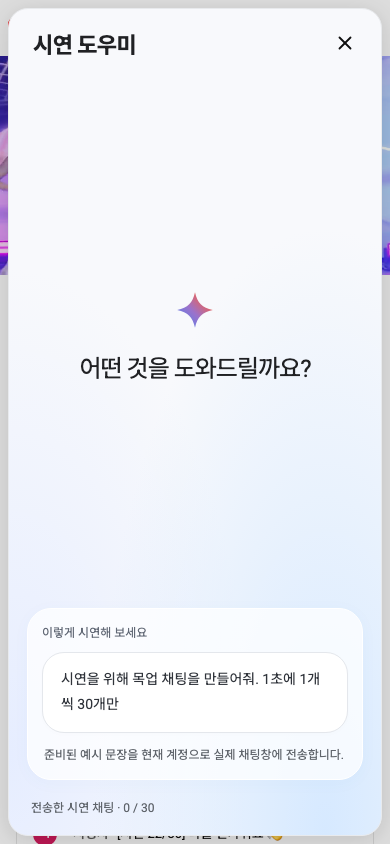
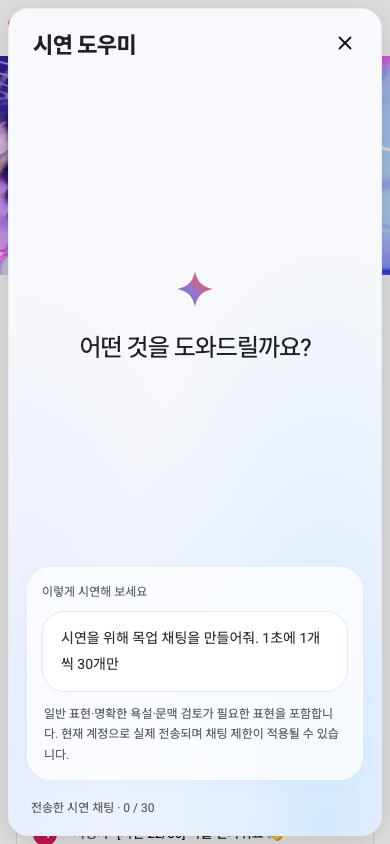
feat: include profanity and contextual examples in demo chat sequence

diff --git a/src/ViewerAssistant.vue b/src/ViewerAssistant.vue
@@ -6,14 +6,15 @@ const open=ref(false),trigger=ref<HTMLButtonElement|null>(null),closeButton=ref<
 const chats=ref<string[]>([]),running=ref(false),failure=ref(''),pending=ref(false);
 let generation=0;
 let timer:ReturnType<typeof setInterval>|undefined;
-const lines=['오늘 방송도 기대돼요!','다들 반가워요 👋','목소리 잘 들려요','화면도 선명하네요','오늘 주제 재밌겠어요','설명 감사합니다','다음 이야기도 궁금해요','같이 보니까 더 즐겁네요','응원하고 있어요!','좋은 방송 감사합니다'];
+// 확정 욕설은 마지막에 배치한다. 제재가 생기면 이후 전송을 우회하지 않는다.
+const lines=["오늘 방송도 기대돼요!", "다들 반가워요 👋", "목소리 잘 들려요", "화면도 선명하네요", "오늘 주제 재밌겠어요", "설명 감사합니다", "다음 이야기도 궁금해요", "같이 보니까 더 즐겁네요", "응원하고 있어요!", "좋은 방송 감사합니다", "이번 장면 정말 멋졌어요", "오늘 게임 이름이 뭔가요?", "초보자도 이해하기 쉬워요", "다음 판도 같이 볼게요", "배경 음악 좋네요", "이 방법은 처음 알았어요", "오늘 컨디션 좋아 보이네요", "채팅창도 활기차네요", "다음 업데이트가 기대돼요", "이 장면 다시 보고 싶어요", "여기서 방향을 바꾸면 어떨까요?", "저도 한번 해 보고 싶어요", "이야기 들으니 이해됐어요", "끝까지 응원할게요", "이번 실수가 다음 판의 시발점이 되겠네요", "아 개못하네 이 판", "와 미쳤다 방금 플레이 진짜 멋있다", "너 진짜 미쳤냐 왜 그렇게 하냐", "게임 접어라 너랑 못 하겠다", "아 씨발 진짜 못하네"];
 function stop(){generation++;if(timer)clearInterval(timer);timer=undefined;running.value=false;}
-function start(){if(running.value||pending.value||props.disabled||!props.sendChat)return;chats.value=[];failure.value='';running.value=true;const run=++generation;timer=setInterval(async()=>{if(pending.value||run!==generation)return;if(props.disabled){stop();return;}pending.value=true;const n=chats.value.length;const text=`[시연 ${n+1}/30] ${lines[n%lines.length]}`;try{const ok=await props.sendChat!(text);if(run!==generation)return;if(!ok){failure.value='전송이 중단되었습니다. 방송 상태와 채팅 제한을 확인해 주세요.';stop();return;}chats.value.push(text);if(chats.value.length===30)stop();await nextTick();list.value?.scrollTo({top:list.value.scrollHeight});}catch{if(run===generation){failure.value='채팅 전송에 실패하여 중단했습니다.';stop();}}finally{pending.value=false;}},1000);}
+function start(){if(running.value||pending.value||props.disabled||!props.sendChat)return;chats.value=[];failure.value='';running.value=true;const run=++generation;timer=setInterval(async()=>{if(pending.value||run!==generation)return;if(props.disabled){stop();return;}pending.value=true;const n=chats.value.length;const text=`[시연 ${n+1}/30] ${lines[n%lines.length]}`;try{const ok=await props.sendChat!(text);if(run!==generation)return;if(!ok){failure.value='전송이 중단되었습니다. 방송 상태와 채팅 제한을 확인해 주세요.';stop();return;}chats.value.push(text);if(chats.value.length===30||props.disabled)stop();await nextTick();list.value?.scrollTo({top:list.value.scrollHeight});}catch{if(run===generation){failure.value='채팅 전송에 실패하여 중단했습니다.';stop();}}finally{pending.value=false;}},1000);}
 async function show(){open.value=true;await nextTick();closeButton.value?.focus();}
 async function close(){open.value=false;stop();await nextTick();trigger.value?.focus();}
 function key(e:KeyboardEvent){if(!open.value)return;if(e.key==='Escape'){e.preventDefault();e.stopPropagation();close();}else if(e.key==='Tab'){const buttons=Array.from(panel.value?.querySelectorAll<HTMLButtonElement>('button:not(:disabled)')??[]);const first=buttons[0],last=buttons[buttons.length-1];if(e.shiftKey&&document.activeElement===first){e.preventDefault();last?.focus();}else if(!e.shiftKey&&document.activeElement===last){e.preventDefault();first?.focus();}}}
 watch(()=>props.scopeKey,()=>{stop();chats.value=[];open.value=false;});
-watch(()=>props.disabled,value=>{if(value&&running.value){failure.value='방송 상태 또는 채팅 제한으로 중단되었습니다.';stop();}});
+watch(()=>props.disabled,value=>{if(value&&running.value&&!pending.value){failure.value='방송 상태 또는 채팅 제한으로 중단되었습니다.';stop();}});
 onMounted(()=>document.addEventListener('keydown',key));
 onBeforeUnmount(()=>{stop();document.removeEventListener('keydown',key);});
 </script>
@@ -26,7 +27,7 @@ onBeforeUnmount(()=>{stop();document.removeEventListener('keydown',key);});
  <div class="viewer-assistant-content" :class="{'has-chats':chats.length>0}">
  <div class="viewer-assistant-welcome"><svg viewBox="0 0 32 32" width="38" height="38" aria-hidden="true"><path fill="url(#viewer-assistant-gradient)" d="M16 1C14 10 10 14 1 16c9 2 13 6 15 15 2-9 6-13 15-15C22 14 18 10 16 1Z"/></svg><h2 id="viewer-assistant-title">어떤 것을 도와드릴까요?</h2></div>
  <div class="viewer-assistant-actions"><span class="viewer-assistant-eyebrow">이렇게 시연해 보세요</span><button type="button" class="viewer-assistant-prompt" :disabled="running||pending||disabled||!sendChat" @click="start">시연을 위해 목업 채팅을 만들어줘. 1초에 1개씩 30개만</button>
- <p class="viewer-assistant-disclosure">준비된 예시 문장을 현재 계정으로 실제 채팅창에 전송합니다.</p></div>
+ <p class="viewer-assistant-disclosure">일반 표현·명확한 욕설·문맥 검토가 필요한 표현을 포함합니다. 현재 계정으로 실제 전송되며 채팅 제한이 적용될 수 있습니다.</p></div>
  <div class="viewer-assistant-progress" role="status">{{running?'채팅창에 전송 중':chats.length===30?'전송 완료':'전송한 시연 채팅'}} · {{chats.length}} / 30</div>
  <p v-if="disabled">방송 중이며 채팅할 수 있는 상태에서 실행할 수 있습니다.</p><p v-if="failure" role="alert">{{failure}}</p>
  <button v-if="running" type="button" class="viewer-assistant-stop" @click="stop">생성 중지</button>
